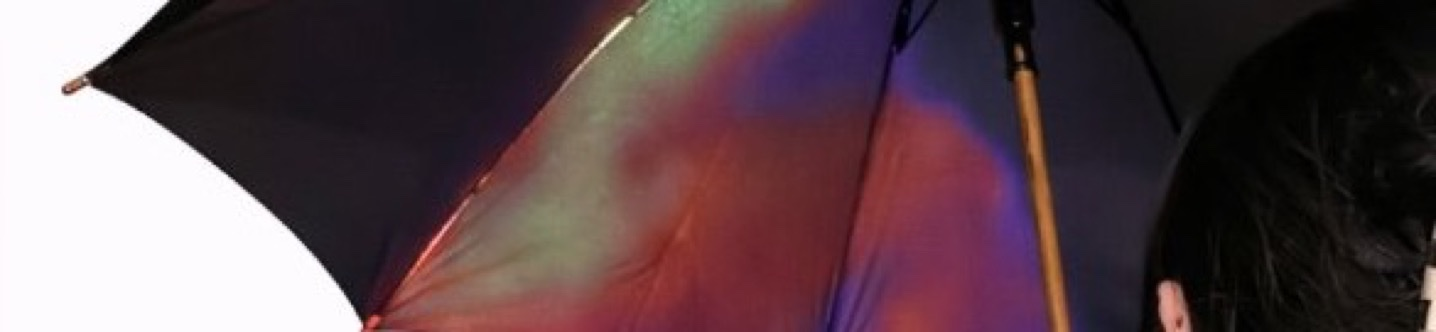
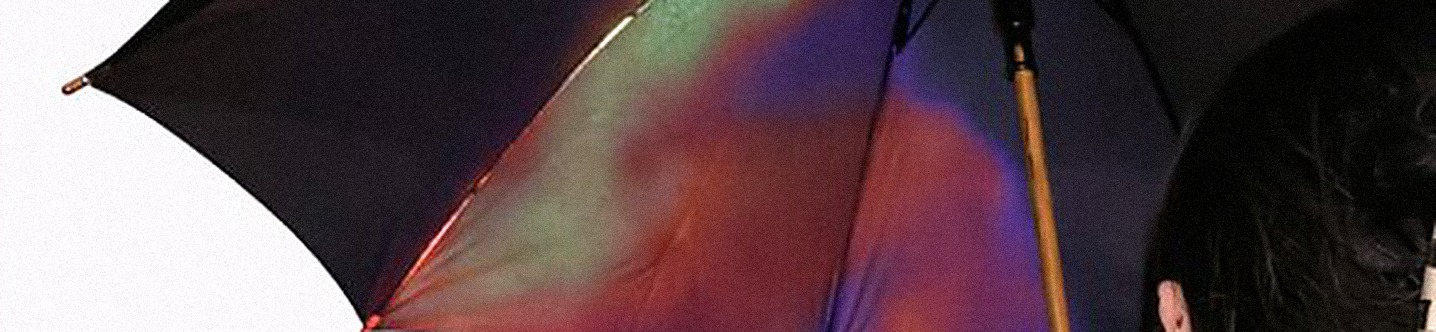
Index: an Also list for the smaller work; new covers for Aiaigasa and Sticky Node
The pictured sections keep the main projects. Everything smaller (minor, in progress,
link-outs, Diagnostic Mazes) moves to one dense Also list at the bottom, opened by
Diagnostic Mazes and Tape Collage with their pictures. Aiaigasa's cover is re-upscaled
with film grain; Sticky Node's cover is a single photo of a joint being pressed on.

diff --git a/variants/plain-list.jsx b/variants/plain-list.jsx
@@ -57,14 +57,41 @@ const PlainRow = React.memo(function PlainRow({ p, on, onEnter, onLeave }) {
   );
 });
 
+// The smaller work, as one dense ledger: a title, one line, a short note on the right. No images.
+const ALSO_ORDER = ['latent-goal', 'tape-collage', 'rockite', 'lce', 'eeg-embroidery', 'eeg-crochet', 'biochar', 'elp', 'sticker-station', 'memo-umbrella', 'icarus'];
+const ALSO_PICTURED = ['latent-goal', 'tape-collage'];   // these two open the list with their picture; the rest are one line each
+function alsoNote(p) { return p.note || (p.wip ? 'In progress' : p.href ? 'Live' : p.venue || p.year || ''); }
+const AlsoRow = React.memo(function AlsoRow({ p, on, onEnter, onLeave }) {
+  const href = p.href || `projects/${p.id}.html`;
+  const ext = !!p.href;
+  return (
+    <a
+      href={href}
+      {...(ext ? { target: '_blank', rel: 'noopener' } : {})}
+      onMouseEnter={() => onEnter(p.id)}
+      onMouseLeave={onLeave}
+      style={{ display: 'grid', gridTemplateColumns: 'minmax(0,1fr) auto', columnGap: 24, alignItems: 'baseline', padding: '9px 0', borderTop: `1px solid ${PL_RULE}`, textDecoration: 'none', color: PL_INK }}
+    >
+      <span style={{ display: 'flex', flexWrap: 'wrap', alignItems: 'baseline', columnGap: 10, rowGap: 1 }}>
+        <span style={{ fontSize: 15, fontWeight: 400, letterSpacing: -0.2, textDecoration: on ? 'underline' : 'none', textUnderlineOffset: 3 }}>{p.title}</span>
+        <span style={{ fontSize: 13.5, fontWeight: 300, color: PL_MUTED, lineHeight: 1.5 }}>{p.short}</span>
+      </span>
+      <span style={{ fontSize: 11, color: PL_MUTED, letterSpacing: 0.6, whiteSpace: 'nowrap' }}>{alsoNote(p)}</span>
+    </a>
+  );
+});
+
 function PlainList({ data }) {
   const sans = 'Roboto, system-ui, sans-serif';
   const [hover, setHover] = React.useState(null);
-  const live = data.projects.filter((p) => !p.wip && !p.minor && !p.proto && !p.hri);
-  const hri = data.projects.filter((p) => p.hri && !p.wip && !p.minor);
-  const proto = data.projects.filter((p) => p.proto && !p.wip && !p.minor);
+  const small = (p) => p.minor || p.wip || p.href || p.also;
+  const live = data.projects.filter((p) => !small(p) && !p.proto && !p.hri);
+  const hri = data.projects.filter((p) => p.hri && !small(p));
+  const proto = data.projects.filter((p) => p.proto && !small(p));
   const wip = data.projects.filter((p) => p.wip);
   const minor = data.projects.filter((p) => p.minor);
+  const rank = (p) => { const i = ALSO_ORDER.indexOf(p.id); return i < 0 ? 999 : i; };
+  const also = data.projects.filter((p) => small(p) && !p.locked).sort((a, b) => rank(a) - rank(b));
 
   const enter = React.useCallback((id) => setHover(id), []);
   const leave = React.useCallback(() => setHover(null), []);
@@ -119,6 +146,16 @@ function PlainList({ data }) {
           <div style={{ marginTop: 56 }}>
             <div style={{ fontSize: 10, color: PL_MUTED, textTransform: 'uppercase', letterSpacing: 1.2, marginBottom: 14 }}>Human-robot interaction</div>
             {rows(hri)}
+            <div style={{ borderTop: `1px solid ${PL_RULE}` }} />
+          </div>
+        )}
+
+        {also.length > 0 && (
+          <div style={{ marginTop: 56 }}>
+            <div style={{ fontSize: 10, color: PL_MUTED, textTransform: 'uppercase', letterSpacing: 1.2, marginBottom: 10 }}>Also</div>
+            {also.map((p) => ALSO_PICTURED.includes(p.id)
+              ? <PlainRow key={p.id} p={p} on={hover === p.id} onEnter={enter} onLeave={leave} />
+              : <AlsoRow key={p.id} p={p} on={hover === p.id} onEnter={enter} onLeave={leave} />)}
             <div style={{ borderTop: `1px solid ${PL_RULE}` }} />
           </div>
         )}

diff --git a/data.jsx b/data.jsx
@@ -83,6 +83,7 @@ const PORTFOLIO_DATA = {
     },
     {
       id: 'tape-collage',
+      note: 'Live · 2026',
       proto: true,
       href: 'https://yolaaandaw-dotcom.github.io/tape-collage/',
       venue: 'Live in the browser · 2026',
@@ -93,6 +94,7 @@ const PORTFOLIO_DATA = {
     },
     {
       id: 'sticker-station',
+      note: 'Live · 2026',
       proto: true,
       href: 'https://yolaaandaw-dotcom.github.io/sticker-station/',
       venue: 'Live in the browser · 2026',
@@ -131,7 +133,7 @@ const PORTFOLIO_DATA = {
       id: 'chair',
       venue: 'RISD',
       short: 'discarded branches held by ceramic joints printed to the ends they grip',
-      thumb: 'projects/assets/sticky/st00-thumb.png',
+      thumb: 'projects/assets/sticky/st00-cover.jpg',
       title: 'Sticky Node',
       subtitle: 'Discarded branches held together by ceramic joints printed to their own geometry.',
       year: '2024',
@@ -181,6 +183,7 @@ const PORTFOLIO_DATA = {
     },
     {
       id: 'latent-goal',
+      also: true,
       hri: true,
       short: 'an algorithm that picks the next maze to learn a player\'s preferences from their turns',
       venue: 'MIT 16.460 Algorithmic HRI',
@@ -304,6 +307,7 @@ const PORTFOLIO_DATA = {
     },
     {
       id: 'memo-umbrella',
+      note: 'RISD · 2023',
       minor: true,
       short: 'an umbrella that remembers where you were when it rained',
       title: 'Memo Umbrella',
@@ -338,6 +342,7 @@ const PORTFOLIO_DATA = {
     },
     {
       id: 'elp',
+      note: 'HTGAA 2026 · in progress',
       short: 'three protein variants that curl differently in humidity',
       venue: 'HTGAA 2026',
       wip: true,
@@ -364,6 +369,7 @@ const PORTFOLIO_DATA = {
     },
     {
       id: 'biochar',
+      note: 'Harvard GSD · in progress',
       short: 'biochar tuned until it prints',
       wip: true,
       title: 'Biochar-Based Direct Ink Writing',
